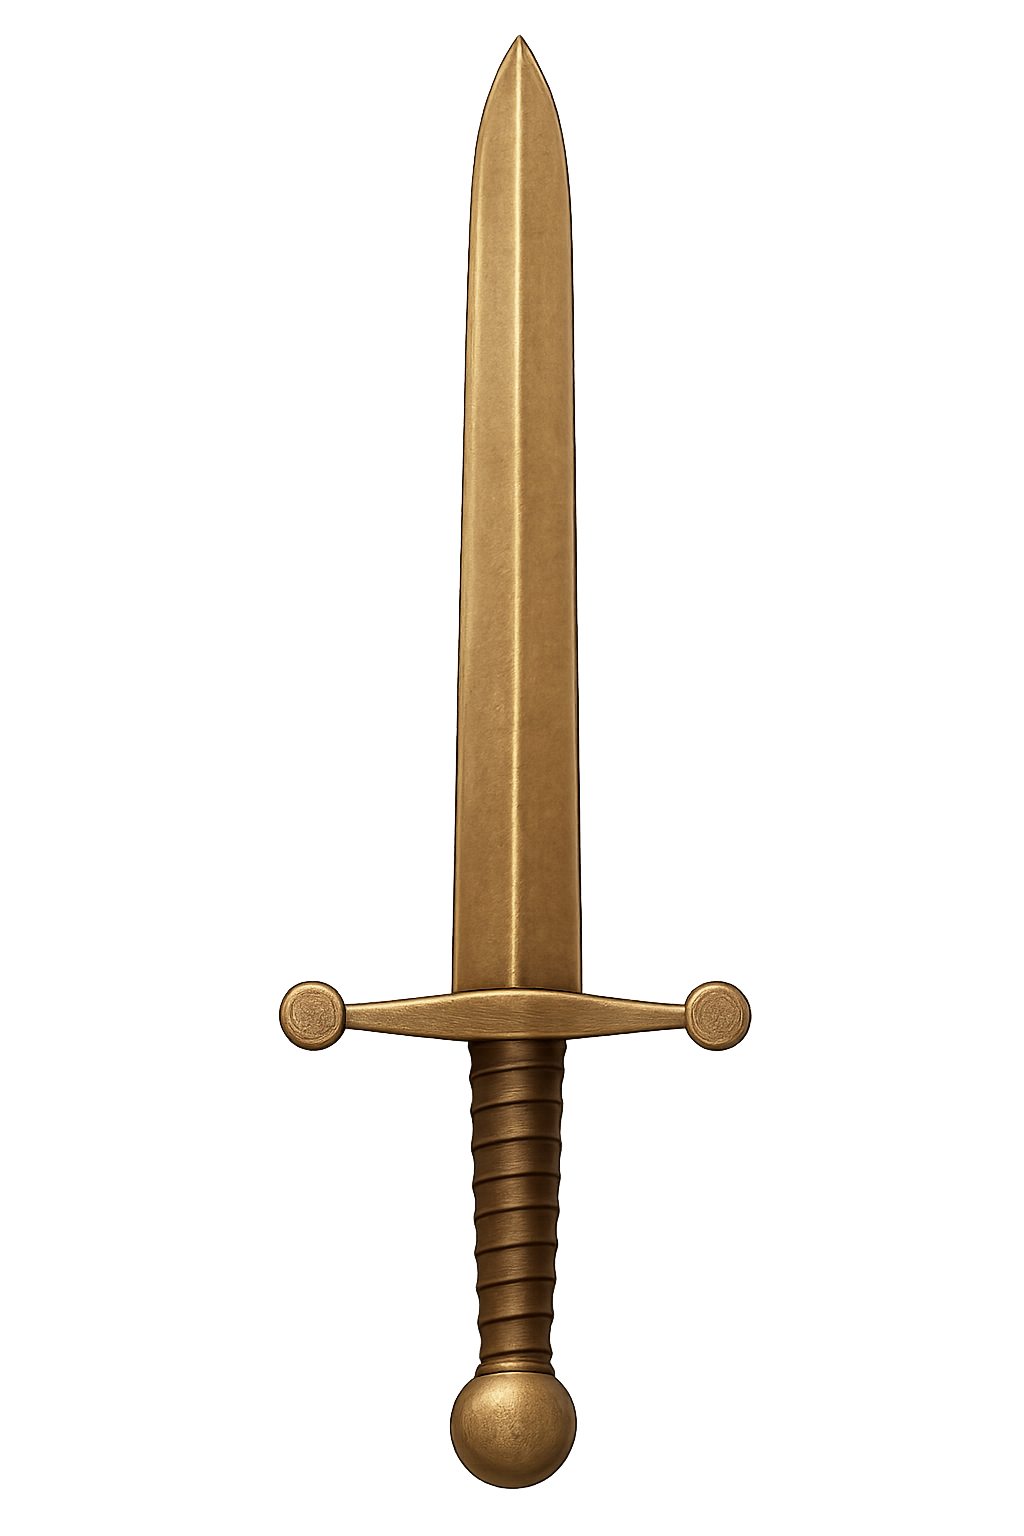
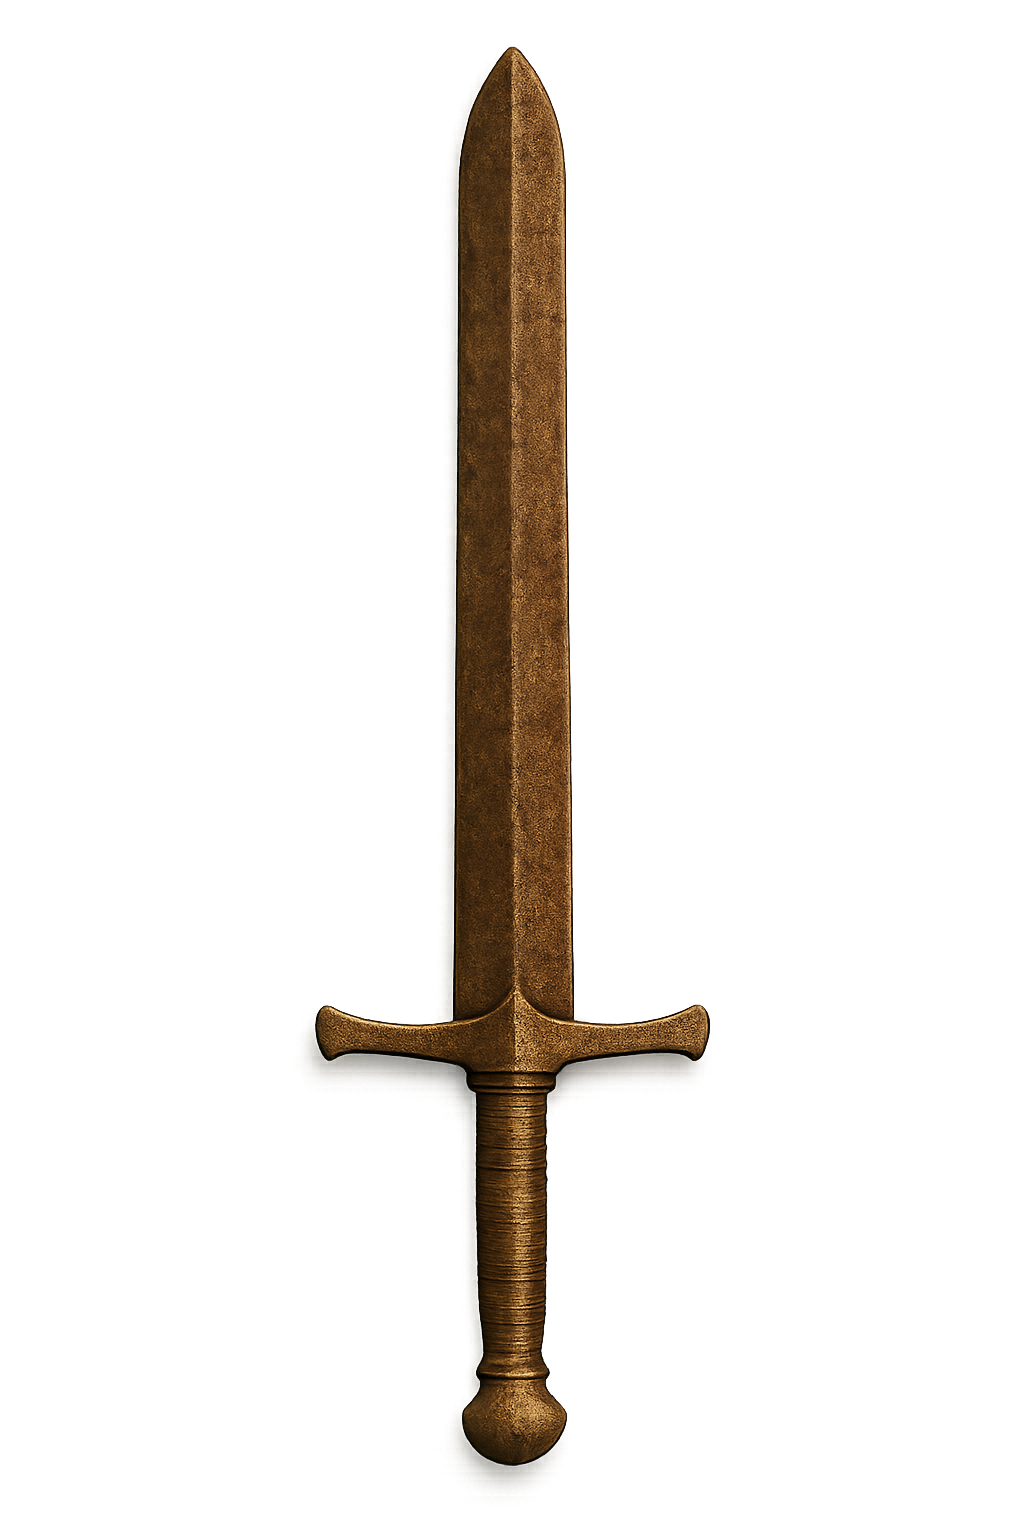
SmithyMenu image views

Changed region(s): [[0.25, 0.0, 0.75, 0.9688]]

diff --git a/src/main/java/com/nation/dungeon/controllers/SmithyMenu_Controller.java b/src/main/java/com/nation/dungeon/controllers/SmithyMenu_Controller.java
@@ -1,7 +1,9 @@
 package com.nation.dungeon.controllers;
 
+import com.nation.dungeon.merchant.Item;
 import com.nation.dungeon.util.GameManager;
 import javafx.fxml.FXML;
+import javafx.scene.control.TextField;
 import javafx.scene.image.ImageView;
 import javafx.scene.layout.Pane;
 import javafx.scene.layout.StackPane;
@@ -18,9 +20,19 @@ public class SmithyMenu_Controller {
     @FXML private ImageView sword4;
     @FXML private ImageView sword5;
 
+    @FXML private TextField sword0Description;
+    @FXML private TextField sword1Description;
+    @FXML private TextField sword2Description;
+    @FXML private TextField sword3Description;
+    @FXML private TextField sword4Description;
+    @FXML private TextField sword5Description;
+
     @FXML private Pane uiLayer;
     @FXML private ImageView background;
     @FXML private StackPane root;
+
+    private ImageView[] swordImageArray;
+    private TextField[] swordDescriptionArray;
 
     @FXML
     public void initialize() {
@@ -32,13 +44,29 @@ public class SmithyMenu_Controller {
         uiLayer.prefWidthProperty().bind(root.widthProperty());
         uiLayer.prefHeightProperty().bind(root.heightProperty());
 
-        //itemCombiner.items has 6 elements from the beginning
-        sword0.setImage(GameManager.get().itemCombiner().items.get(0).getImage());
-        sword1.setImage(GameManager.get().itemCombiner().items.get(1).getImage());
-        sword2.setImage(GameManager.get().itemCombiner().items.get(2).getImage());
-        sword3.setImage(GameManager.get().itemCombiner().items.get(3).getImage());
-        sword4.setImage(GameManager.get().itemCombiner().items.get(4).getImage());
-        sword5.setImage(GameManager.get().itemCombiner().items.get(5).getImage());
+        //Sets the first 6 weapon pictures
+        swordImageArray = new ImageView[] {sword0, sword1, sword2, sword3, sword4, sword5};
+
+        for(int i = 0; i < swordImageArray.length && i < GameManager.get().itemCombiner().items.size(); i++) {
+            swordImageArray[i].setImage(GameManager.get().itemCombiner().items.get(i).getImage());
+        }
+
+        //Sets the first 6 weapon descriptions
+        setFirstSixWeaponNames();
+
+        //Sets the textFields to the string value of the weapon they are describing
+        for(Item item : GameManager.get().itemCombiner().items) {
+            sword0Description.setText(item.getDescription());
+        }
+    }
+
+    private void setFirstSixWeaponNames() {
+        GameManager.get().itemCombiner().items.get(0).setDescription("Trodden wooden sword");
+        GameManager.get().itemCombiner().items.get(1).setDescription("Rusty bronze sword");
+        GameManager.get().itemCombiner().items.get(2).setDescription("Thoroughly worn metal sword");
+        GameManager.get().itemCombiner().items.get(3).setDescription("Fine iron sword");
+        GameManager.get().itemCombiner().items.get(4).setDescription("great damascus steel sword");
+        GameManager.get().itemCombiner().items.get(5).setDescription("Dragon steel sword");
     }
 
 }
